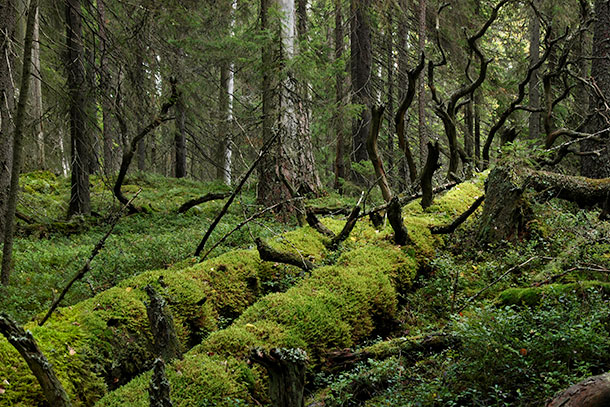
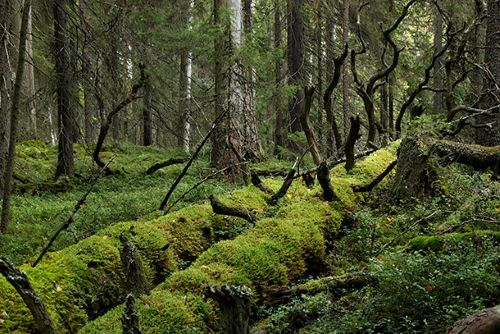
Lisätty ja päivitetty kuvia

diff --git a/HARJOITUS-1-HTML-rakenne-harjoitus/muut_sivut/support.html b/HARJOITUS-1-HTML-rakenne-harjoitus/muut_sivut/support.html
@@ -69,5 +69,7 @@
           Luonnonsuojelussa lupauksia tärkeämpiä ovat mitattavat tulokset.</p>
 
           <a href="https://www.beatlesweekend.fi/"> <button> Tutustu rahoittamiimme hankkeisiin </button> </a>
+
+          <img src="../kuvat/birdviewmetsa.jpg">
      </body>
 </html>

diff --git a/HARJOITUS-1-HTML-rakenne-harjoitus/muut_sivut/about.html b/HARJOITUS-1-HTML-rakenne-harjoitus/muut_sivut/about.html
@@ -56,5 +56,6 @@
         Luonto ei tarvitse ihmiseltä oikeutusta olemassaololleen.
         Se tarvitsee tilaa.
         Sitä tilaa ARTEMIS puolustaa.</p>
+       <img src="../kuvat/lahopuut.jpg">
      </body>
 </html>
